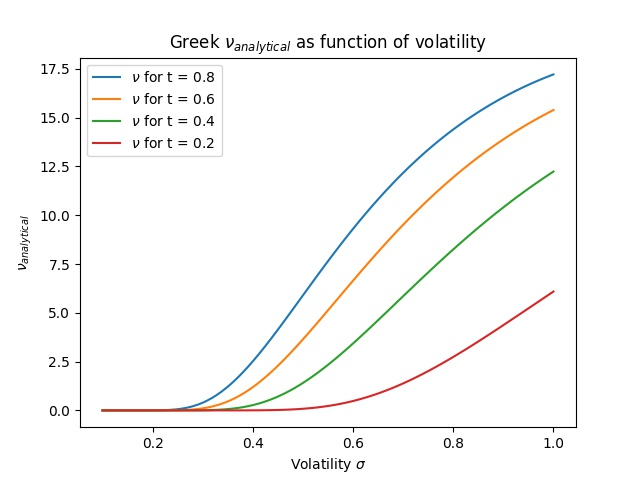
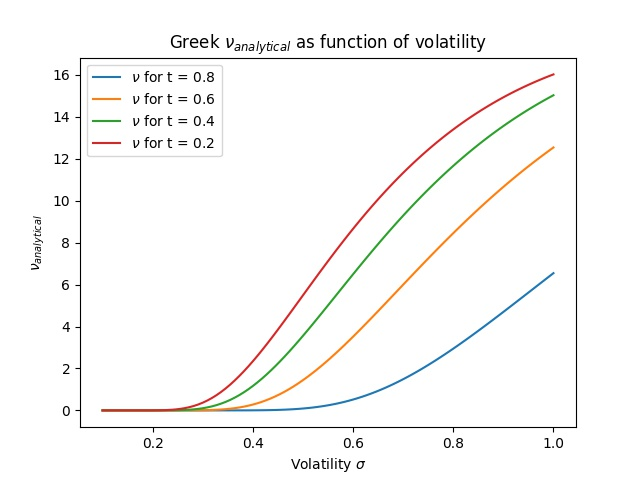
found bug in d1 and d2

diff --git a/Project5_BS/CodeBase/visualize.py b/Project5_BS/CodeBase/visualize.py
@@ -50,11 +50,11 @@ plt.show()
 def d1(S_t, ti,sigma):
 
 
-    return 1 / (sigma * np.sqrt(np.max(t) - ti)) * (np.log(S_t / E) + (r + sigma**2 / 2) * (np.max(t) - ti))
+    return 1 / (sigma * np.sqrt(ti)) * (np.log(S_t / E) + (r + sigma**2 / 2) * (ti))
 
 
 def d2(S_t, ti,sigma):
-    return d1(S_t, ti,sigma) - sigma * np.sqrt(np.max(t) - ti)
+    return d1(S_t, ti,sigma) - sigma * np.sqrt(ti)
 
 
 def N(d):
@@ -66,7 +66,7 @@ def Vana(S_t, ti, sigma, r):
 
 
 for i in range(1, len(t)):
-    plt.plot(S[1:-1], Vana(S[1:-1], T - t[i], sigma, r),
+    plt.plot(S[1:-1], Vana(S[1:-1], t[i], sigma, r),
              label="V(S,t={:.1f})".format(T - t[i]))
 
 plt.legend()
@@ -78,7 +78,7 @@ plt.show()
 
 
 for i in range(1, len(t)):
-    plt.plot(S, np.abs(V[i, :] - Vana(S, T - t[i], sigma, r)),
+    plt.plot(S, np.abs(V[i, :] - Vana(S,t[i], sigma, r)),
              label="|V_dif|,t={:.1f}".format(T - t[i]))
 plt.legend()
 plt.xlabel("Price of underlying asset")
@@ -228,8 +228,8 @@ plt.savefig("Results/tau.jpeg")
 plt.show()
 
 # Derivation of anaytical expression
-
-
+# Something is wrong with most of these, not sure why
+"""
 def delta_ana(S, tau):
     a = (special.erf((np.log(S / E)) / (np.sqrt(2) * sigma * tau))) / np.sqrt(2)
     b = - (np.exp(-np.log(S / E)**2 / (2 * sigma**2 * tau))) / \
@@ -274,12 +274,12 @@ def rho_ana(r, S, tau):
     b = sigma * np.sqrt(tau) - special.erf(np.log(S / E) /
                                            (np.sqrt(2 * tau) * sigma))
     return a * b
-
+"""
 print(trho)
 
 
 
-St = np.max(S)
+St = S[-1]
 
 def n(x):
     return np.exp(-x**2/2)/(np.sqrt(2*np.pi))
@@ -322,7 +322,7 @@ plt.title(r"Greek $\gamma_{analytical}$ as function of stock price")
 plt.savefig("Results/gamma_ana.jpeg")
 plt.show()
 
-plt.plot(trho, alttheta(St, trho),
+plt.plot(t[1:], alttheta(St, t[1:]),
          label=r"$\Theta$($\tau$)")
 plt.legend()
 plt.xlabel(r"Time $\tau$ ")
